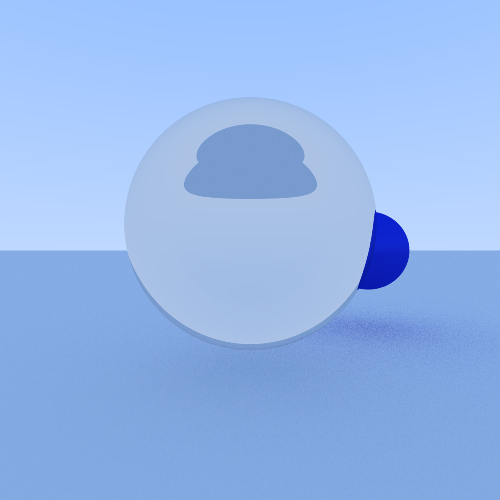
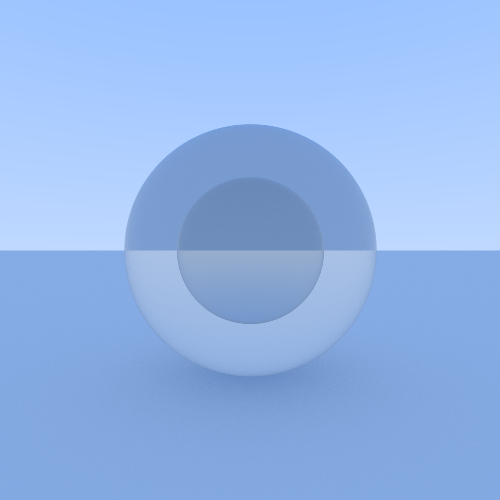
working snell, loading bar

Changed region(s): [[0.24, 0.18, 0.84, 0.75], [0.27, 0.54, 0.3, 0.6], [0.3, 0.6, 0.33, 0.63]]

diff --git a/src/geometry.rs b/src/geometry.rs
@@ -1,4 +1,5 @@
 use crate::vec3::{Point, Vec3};
+use rand::Rng;
 pub struct HitInfo {
     pub p: Point,
     pub normal: Vec3,
@@ -10,7 +11,7 @@ pub enum Reflection {
     Diffuse(),
     //roughness is normalized
     Metal{roughness: f32},
-    Glass()
+    Glass{reflective: f32}
 }
 
 #[derive(Clone, PartialEq)]
@@ -18,18 +19,26 @@ pub struct Material {
     pub color: Vec3,
     pub refl: Reflection
 }
+
+
+fn reflectance(cos: f32, eta: f32) -> f32 {
+    //Schlick's approximation
+    let r0 = ((1. - eta) / (1. + eta)).powi(2);
+    r0 + (1. - r0) * (1. - cos).powi(5)
+
+}
+
 //the n is the ratio of the refractive index of the second medium to the first medium
 //n1*sin(theta1) = n2*sin(theta2)
 //dir = normal*n + normal*(n*cos(theta) - cos(theta2))
-
-fn snell(incoming: &Vec3, normal: &Vec3, n1:f32, n2:f32) -> Vec3 {
-    let eta = n1 / n2; // Ratio of refractive indices
+fn snell(incoming: &Vec3, normal: &Vec3, eta: f32) -> Vec3 {
     let cos_theta_i = incoming.dot(normal); // Cosine of incident angle
     let sin2_theta_t = eta * eta * (1.0 - cos_theta_i * cos_theta_i);
 
+    let random: f32 = rand::thread_rng().gen_range(0.0..1.0); 
     // Check for total internal reflection
-    if sin2_theta_t > 1.0 {
-        return incoming * -1.; // No refraction possible (Total Internal Reflection)
+    if sin2_theta_t > 1.0 || reflectance(cos_theta_i.abs().min(1.), eta) > random {
+        return (incoming + normal * 2.).normalize();
     }
 
     let cos_theta_t = (1.0 - sin2_theta_t).abs().sqrt();
@@ -46,18 +55,18 @@ fn scatter(ray: &Ray, hit: &HitInfo) -> Ray {
             let poi = &hit.p + &hit.normal;
             sol.dir = (poi+Vec3::random() - &hit.p).normalize();
 
-        }
+        } 
         Reflection::Metal{roughness} => {
             sol.dir = &ray.dir + &hit.normal * 2.;
             sol.dir = sol.dir.normalize() + Vec3::random() * roughness;
             sol.dir = sol.dir.normalize();
         }
-        Reflection::Glass() => {
+        Reflection::Glass{reflective} => {
             if ray.dir.dot(&hit.normal) > 0.{
-                //frontface
-                sol.dir = snell(&ray.dir, &hit.normal, 1., 1.5);
+                //backface
+                sol.dir = snell(&ray.dir, &(-1. * &hit.normal), reflective);
             } else {
-                sol.dir = snell(&ray.dir, &hit.normal, 1.5, 1.);
+                sol.dir = snell(&ray.dir, &hit.normal, 1./reflective);
 
             }
             assert!(sol.dir.length() > 0.999 && sol.dir.length() < 1.001, "scatter glass");

diff --git a/src/main.rs b/src/main.rs
@@ -15,11 +15,11 @@ pub const HEIGHT: usize = 500;
 const WHITE: Vec3 = Vec3::new(1., 1., 1.);
 const OBJECTS: [Object; 3] = [
     Object::Sphere {
-        pos: Vec3::new(1.5, 1.6, 0.),
-        rad: 0.5,
+        pos: Vec3::new(0., 0., 0.),
+        rad: 0.2,
         mat: Material {
-            color: Vec3::new(0.1, 0.2, 0.9),
-            refl: Reflection::Metal { roughness: 0.2 },
+            color: WHITE,
+            refl: Reflection::Glass { reflective: 1. },
         },
     },
     Object::Plane {
@@ -30,15 +30,15 @@ const OBJECTS: [Object; 3] = [
             refl: Reflection::Diffuse(),
         },
     },
-    //Object::Sphere {pos: Vec3::new(0., 0., -40.), rad: 39., mat: Material{color: Vec3::new(1., 1., 0.), refl: Reflection::Diffuse()}},
     Object::Sphere {
-        pos: Vec3::new(0., 0., 0.2),
-        rad: 1.,
-        mat: Material {
-            color: WHITE,
-            refl: Reflection::Glass()
-        },
+        pos: Vec3::new(0., 0., 0.), 
+        rad: 1., 
+        mat: Material{
+            color: WHITE, 
+            refl: Reflection::Glass { reflective: 1.5 }
+        }
     },
+
 ];
 
 //fragment shader -> runs for every pixel
@@ -50,7 +50,7 @@ fn frag(x: usize, y: usize) -> Pixel {
     ux *= WIDTH as f32 / HEIGHT as f32;
 
 
-    let c = 100;
+    let c = 200;
     let bounce_count: u8 = 50;
     let mut rng = rand::thread_rng();
     let offset: f32 = 0.001;

diff --git a/src/render.rs b/src/render.rs
@@ -2,7 +2,7 @@ use std::usize;
 use image::{RgbImage, ImageBuffer, Rgb};
 use crate::{WIDTH, HEIGHT};
 use rayon::prelude::*;
-
+use indicatif::ProgressBar;
 
 #[derive(Clone, Copy, Default)]
 pub struct Pixel{
@@ -30,12 +30,17 @@ where
 pub fn display<F>(func: F, name: &str)
 where F: Fn(usize, usize) -> Pixel + Sync + Send {
     let mut buffer: RgbImage = ImageBuffer::new(WIDTH as u32, HEIGHT as u32);
+    println!("Rendering image...");
+    let pb = ProgressBar::new(HEIGHT as u64);
     for y in 0..HEIGHT {
         let row = parallel_row(&func, y);
         for (x, pix) in row.iter().enumerate() {
             buffer.put_pixel(x as u32, y as u32, Rgb([pix.r, pix.g, pix.b]));
         }
+        pb.inc(1);
     }
+    pb.finish();
+    println!("done!");
     buffer.save(format!("{}.png", name)).unwrap();
 }
 
